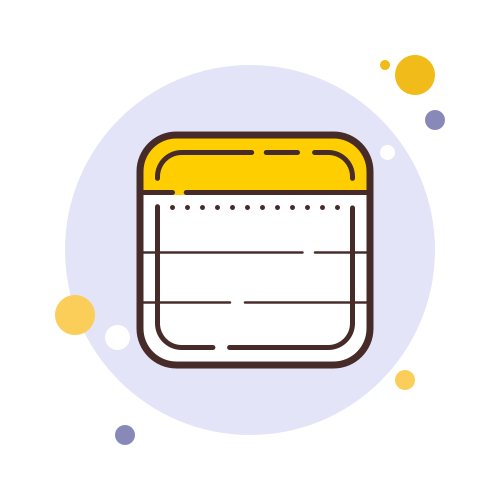
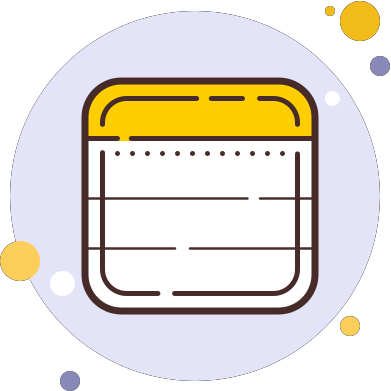
bugs-fixed--headerToogleIcon,headerDropdown,HomePageResources,MentorCardWidth

diff --git a/src/components/pages/home.css b/src/components/pages/home.css
@@ -60,7 +60,7 @@ body {
   }
   
   #content {
-    padding: 6.25rem 10rem 1.25rem 10rem;
+    padding: 6.25rem 3rem 1.25rem 3rem;
     text-align: center;
     z-index: 5;
   }
@@ -87,8 +87,8 @@ body {
   }
   
   .feature-icon {
-    width: 150px;
-    height: 150px;
+    width: 115px;
+    height: 115px;
     padding:1%;
     transition: all 0.3s ease-in;
   }
@@ -114,7 +114,9 @@ body {
     transform: scale(1.1);
     color: #fff;    
   }
-  
+  #notes .feature-icon{
+    margin-right:.25rem;
+  }
   #links{
     margin-left: auto;
     margin-right: 10%;
@@ -183,10 +185,11 @@ body {
     .features{
       width: 50%;
     }
-    #links {
-      text-align: center;
+
+    .features h1{
+      display: flex;
+      flex-direction: column;
     }
-  
     #elements {
       transform: scale(0.85);
     }
@@ -194,9 +197,13 @@ body {
     #links {
       margin-left: auto;
       margin-right: 0%;
-      text-align: center;
     }
-  
+    #links h1{
+      display: flex;
+      margin-right: 25px;
+      flex-direction: column-reverse;
+      align-items: center;
+    }
     #mentors,#notes {
       padding-left: 0%;
     }
@@ -256,15 +263,16 @@ body {
   }
   
   /* tablets */
-  @media screen and (max-width: 1025px) and (min-width: 765px) {
+  @media screen and (min-width: 768px) {
     #links {
       text-align: center;
     }
-  
-    /* for svg wave  */
-    #getstarted_box {
-      min-height: 63vh;
+    #content{
+      padding: 6.25rem 10rem 1.25rem 10rem;
     }
+    
+    /* for svg wave  */
+
     /* .pg-heading
     {
       margin-left: 30%;

diff --git a/src/components/Layouts/Header.js b/src/components/Layouts/Header.js
@@ -5,19 +5,26 @@ import { useEffect ,useState } from "react";
 
 
 
-function changestate() {
-  if (window.innerWidth <= 992) {
-    return <span>profile</span>;
-  } else {
-    return <img src={dp} alt="image" />;
-  }
-}
+// function changestate() {
+//   if (window.innerWidth <= 992) {
+//     return <span>profile</span>;
+//   } else {
+//     return <img src={dp} alt="image" />;
+//   }
+// }
 
 const Header = (props) => {
 
   const navigate = useNavigate();
   const [user, setuser] = useState({});
   const [isLoggedIn, setisLoggedIn] = useState(false);
+  const [scrollCollapse,setCollapse] = useState('show');
+
+  const handleCollapse = ()=>{
+    if(window.innerWidth<992){
+        setCollapse('show');
+    }
+  }
 
   const handleLogout = ()=>{
 
@@ -78,7 +85,7 @@ const Header = (props) => {
                     </a>
                   </li>
                 </Link>
-                <li className="nav-item dropdown ms-2">
+                <li className="nav-item dropdown">
                   <a
                     className="nav-link dropdown-toggle"
                     href="#"
@@ -123,7 +130,7 @@ const Header = (props) => {
                     </a>
                   </li>
                 </Link>
-                <li className="nav-item dropdown profile ms-3">
+                <li className="nav-item dropdown profile">
                   <a
                     className="nav-link dropdown-toggle"
                     href="#"

diff --git a/src/components/Layouts/Header.css b/src/components/Layouts/Header.css
@@ -22,6 +22,8 @@ h6 {
   border-bottom: 1px solid white;
 }
 
+
+
 /*     N A V B A R     */
 
 /* #navnav {
@@ -144,6 +146,7 @@ li i {
   #content {
     padding: 3.25rem 5rem 1.25rem 5rem;
   }
+
   .container-fluid img {
     transform: scale(0.75);
   }
@@ -163,14 +166,26 @@ li i {
   #menubutton {
     margin-right: -5%;
   }
+  #menubutton:active,#menubutton:focus{
+    background-color: transparent !important;
+  }
+  .dropdown-toggle{
+    margin-left: 1rem !important;
+  }
 }
 
 
 a {
-  color: white;
+  color: white !important;
   text-decoration: none;
 }
 
+nav .dropdown_menu a:hover{
+  color:black !important;
+}
+.nav a.nav-link:hover{
+  color: white;
+}
 .main-header {
   background: none;
 }

diff --git a/src/components/pages/mentors.css b/src/components/pages/mentors.css
@@ -24,13 +24,13 @@
     padding: 1%;
 }
 .mentorpic {
-    /* transform: scale(0.5); */
-    width: 200px;
-    height: 200px;
-    display: block;
-    border-radius:50%;
-    margin-left: auto;
-    margin-right: auto;
+  border-radius: 50%;
+  display: block;
+  margin-left: auto;
+  margin-right: auto;
+  width: 80%;
+  aspect-ratio: 1;
+  max-width: 200px;
 }
 
 .mentor-cards {
@@ -43,6 +43,8 @@
     background-color: rgb(252, 220, 209);
     transform: scale(0.9);
     width: 100%;
+    max-width: 400px;
+    margin: auto;
 }
 
 .mentor-cards .card-body:last-of-type{

diff --git a/src/components/pages/Links.css b/src/components/pages/Links.css
@@ -42,7 +42,7 @@ color: #fff;
 body,a,span,select{
 color: white;
 }
-button:focus{
+#link-box button:focus{
 background-color: white !important;
 color: #fe1f66 !important;
 }
